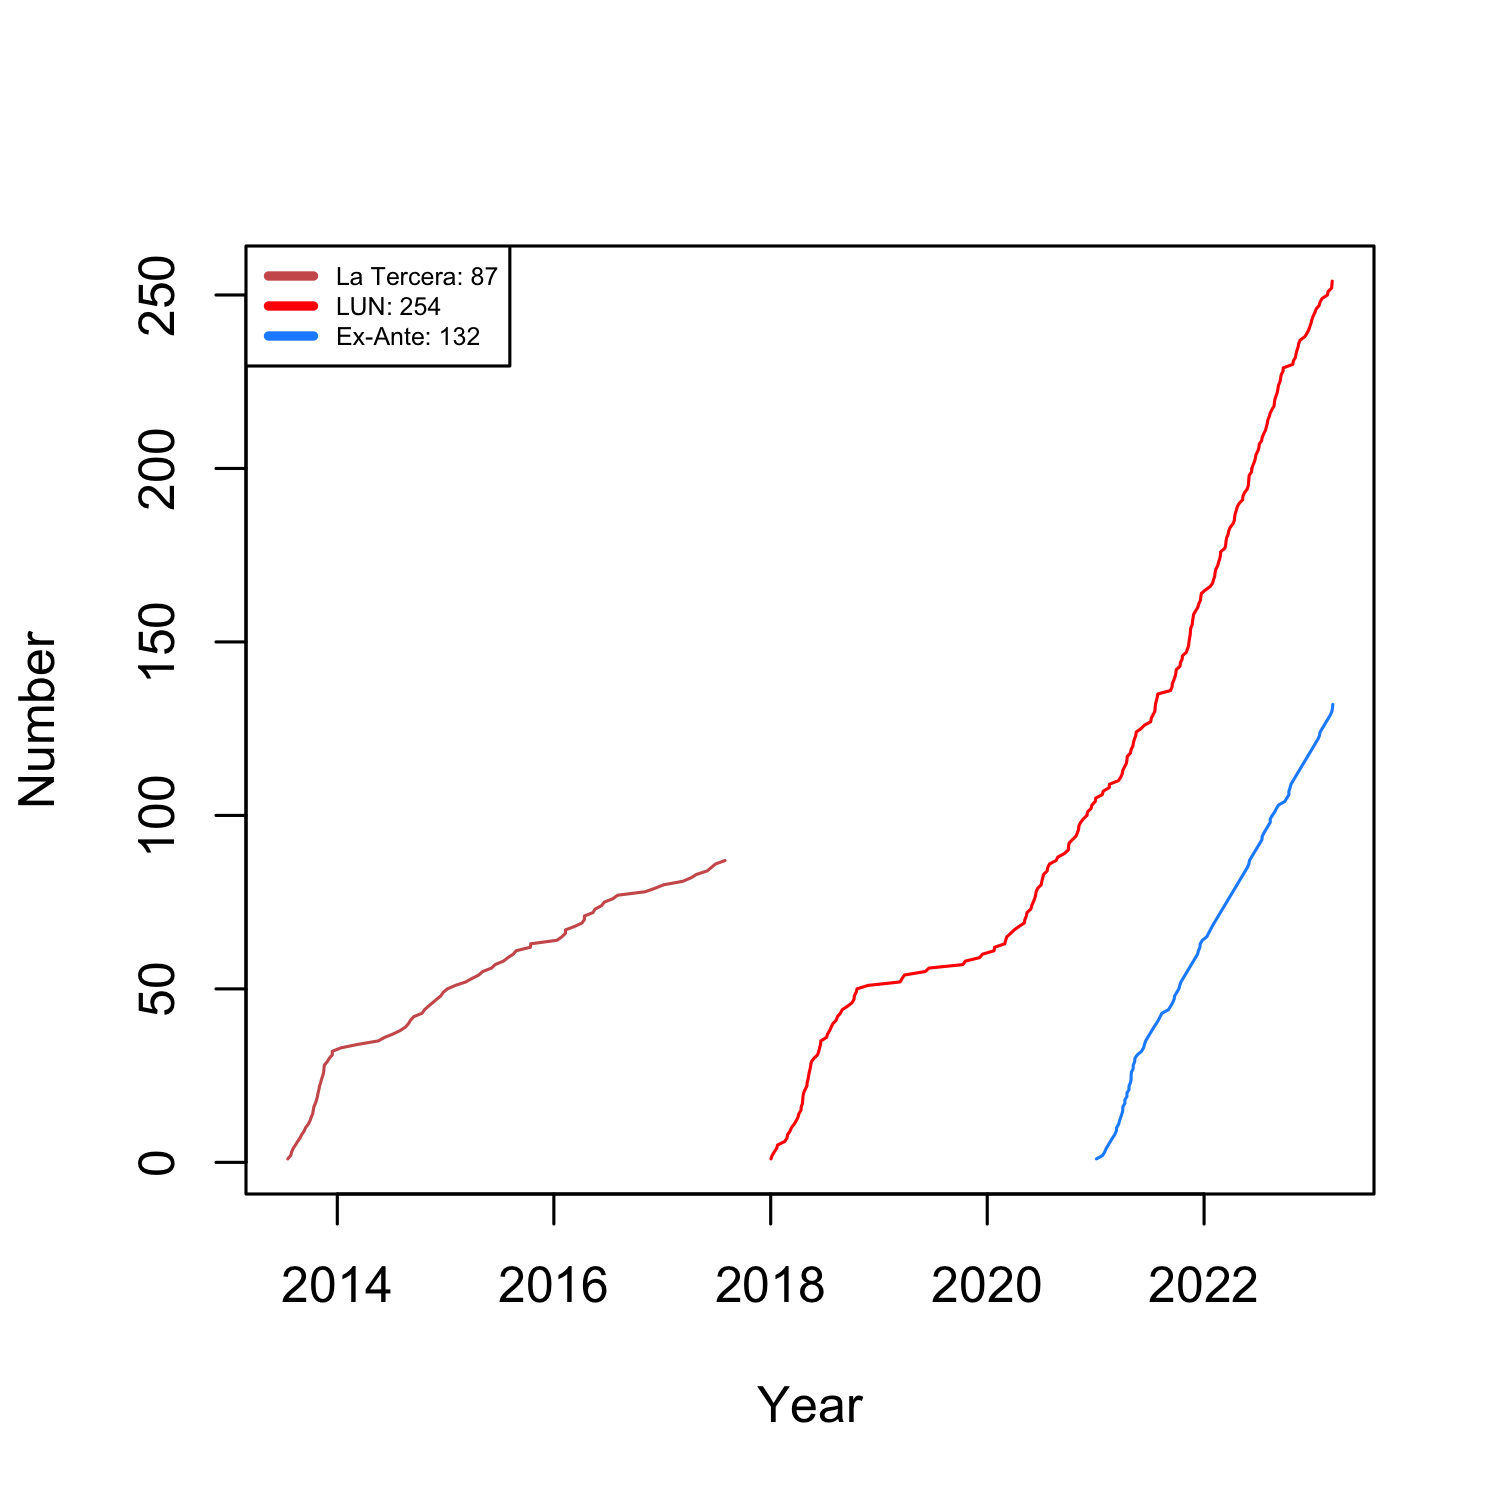
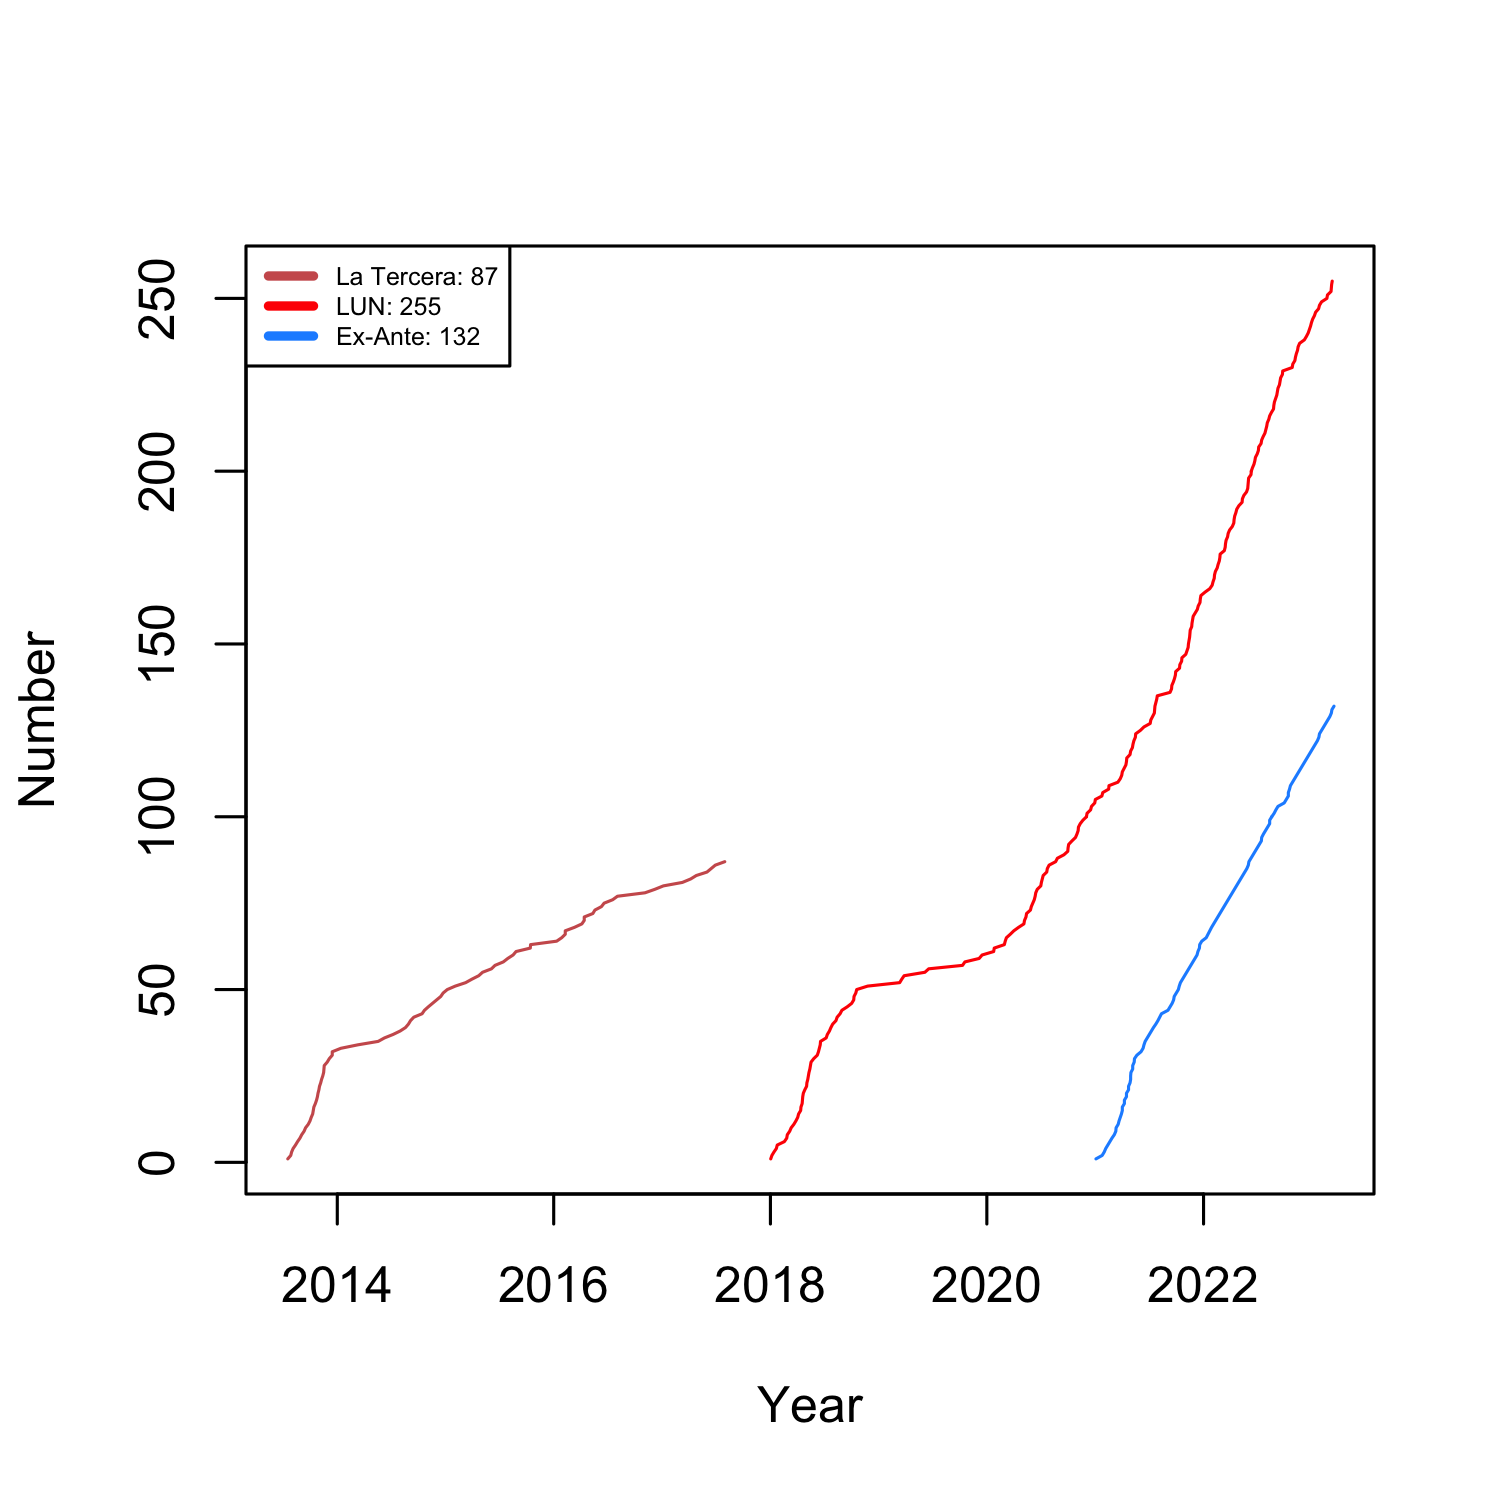
d

diff --git a/press.md b/press.md
@@ -18,6 +18,8 @@
 
 - **France 24**. [Crisis ministerial en Chile: Boric anuncia cambios en cinco carteras.](https://www.france24.com/es/am%C3%A9rica-latina/20230310-crisis-ministerial-en-chile-boric-anuncia-cambios-en-cinco-carteras) 11 March, 2023.
 
+- **Publico**. [Boric afronta su segundo cambio de Gobierno desde que llegó a la presidencia con una gran remodelación en Exteriores.](https://www.publico.es/internacional/boric-afronta-segundo-cambio-gobierno-llego-presidencia-gran-remodelacion-exteriores.html) 11 March, 2023.
+
 - **Voz de América**. [Chile: Boric modifica su gabinete a un año de asumir la presidencia
 .](https://www.vozdeamerica.com/a/boric-modifica-gabinete-chile-/6999790.html) 11 March, 2023.
 

diff --git a/columns.md b/columns.md
@@ -14,6 +14,11 @@
 
 [*Las Últimas Noticias*](https://www.lun.com)
 
+- 20230311 - Moderación forzada
+- 20230309 - Grueso Error
+- 20230308 - Una bola de nieve
+- 20230307 - El respeto
+- 20230223 - Los buenos
 - 20230221 - La frontera
 - 20230203 - Intención versus ejecución
 - 20230127 - Trapos al sol
@@ -264,6 +269,11 @@
 
 [*Ex-Ante*](https://www.ex-ante.cl)
 
+- 20230317 - Los antagonistas
+- 20230310 - Las absurdas minutas del gobierno
+- 20230308 - Promesas vacías
+- 20230303 - De vuelta a clases
+- 20230224 - Al gobierno le llegó marzo
 - 20230217 - Negocios y delincuencia en Santiago Centro
 - 20230210 - El regreso de la “vieja guardia”
 - 20230203 - El debate de las dos listas
